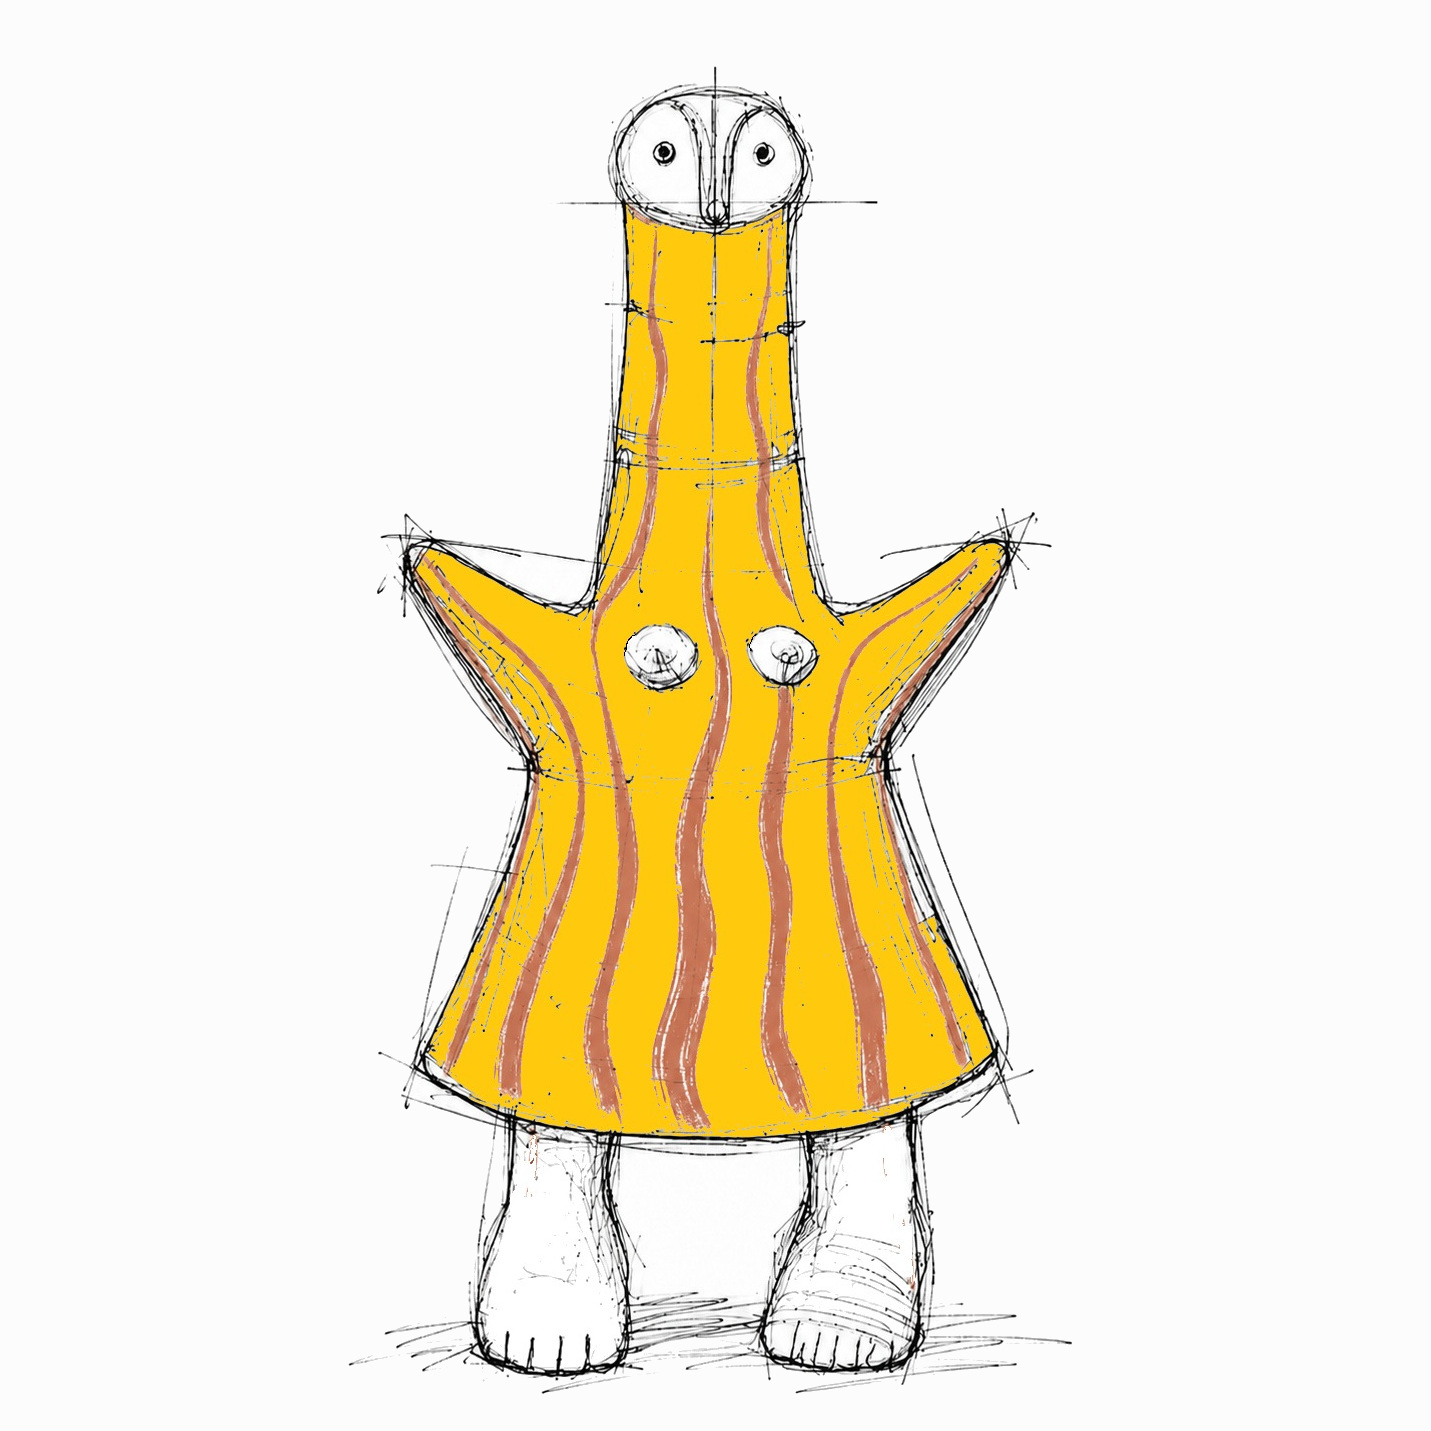
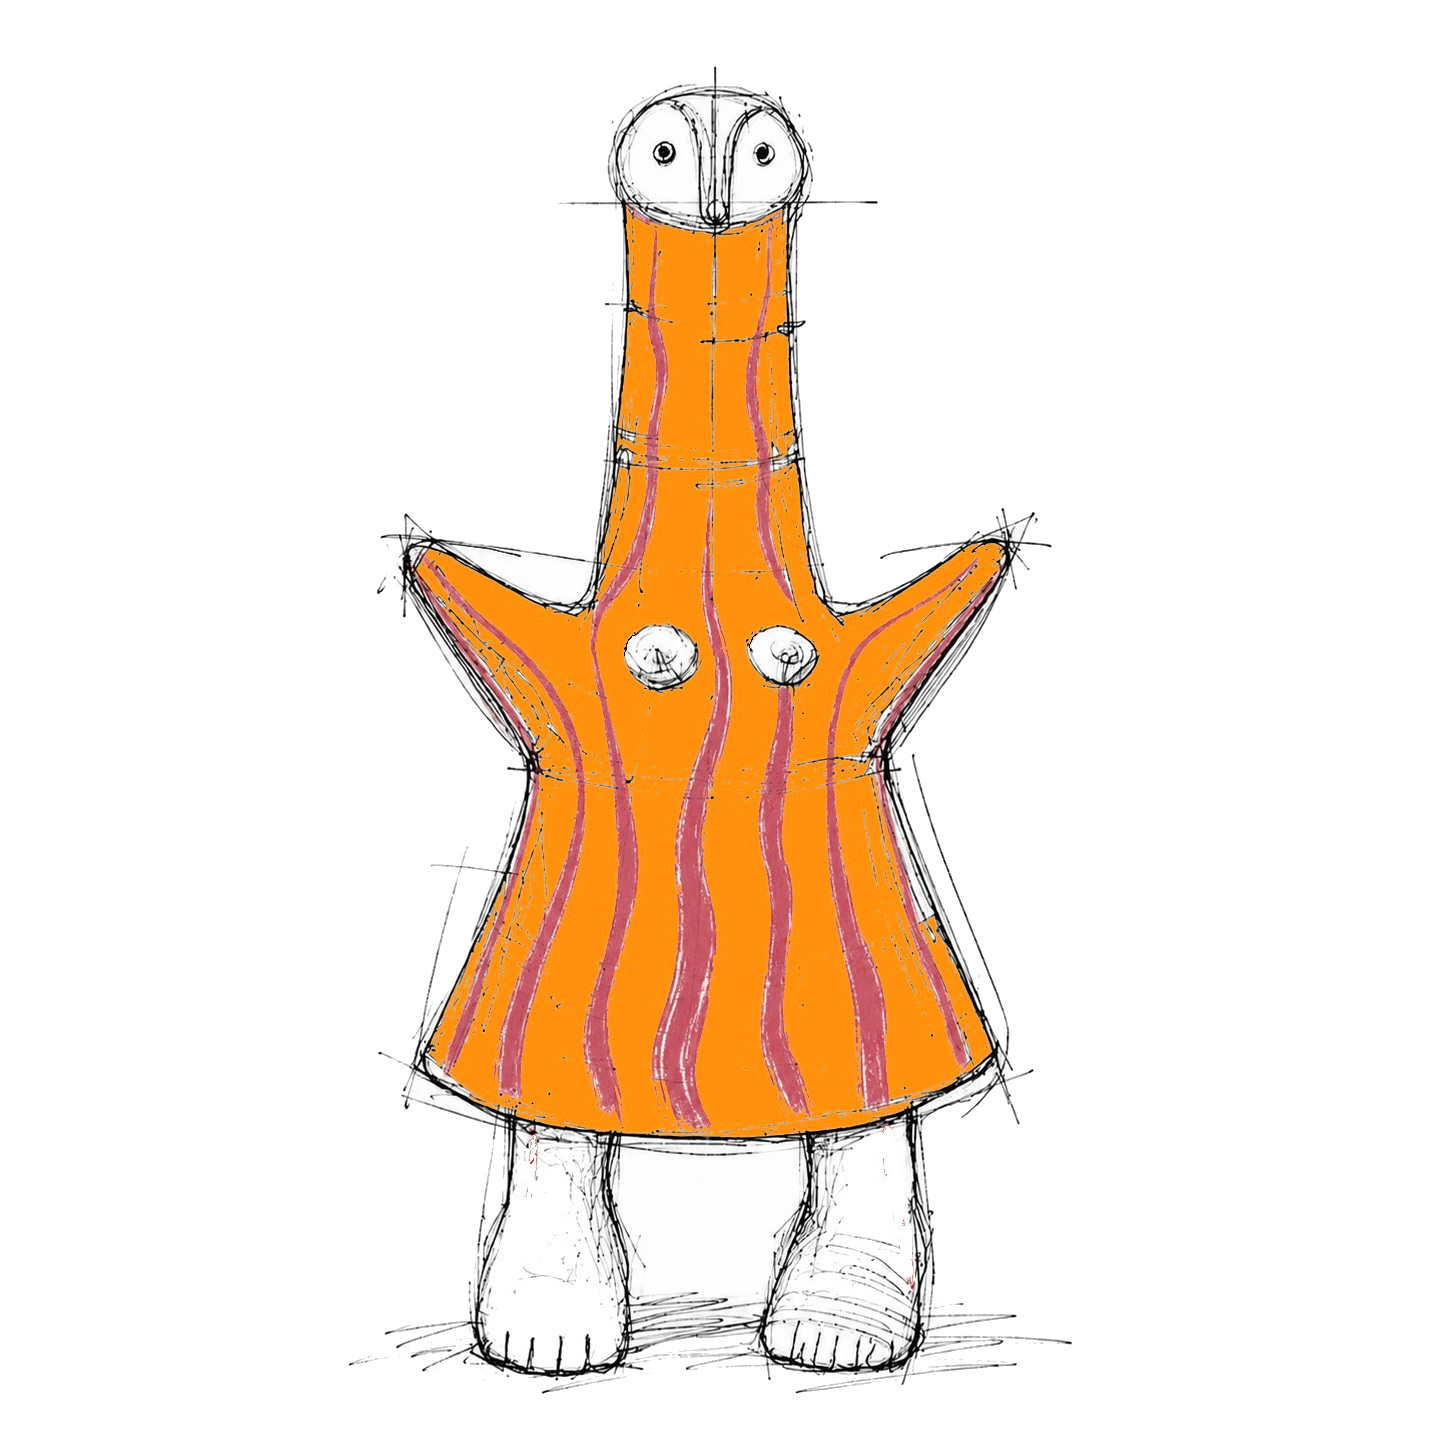
less footprints

Changed region(s): [[0.2767, 0.1537, 0.7072, 0.7994]]

diff --git a/front/src/components/sections/DoSection.js b/front/src/components/sections/DoSection.js
@@ -24,10 +24,9 @@ const SIDE_INSET = 0.07; // vertical sides sit this fraction in from each edge (
 const FOOT_STEP = 66; // px between footprints along the trail
 const FOOT_LATERAL = 14; // px each print is nudged to its track (left vs right)
 const LG = 992; // trail is desktop-only, like the circles
+const BOTTOM_PAIRS = 2; // footprints kept on EACH bottom side (L-R, L-R), nearest the corners
 
-// Two distinct toddler footprints (drawn toes-up), so the alternating gait is
-// legible. They are true mirrors of each other — big toe on opposite sides —
-// and carry .do-foot-left / .do-foot-right so you can target either track.
+//They carry .do-foot-left / .do-foot-right.
 function FootLeftShape() {
   return (
     <>
@@ -56,9 +55,10 @@ function FootRightShape() {
   );
 }
 
+
 // parity 0 = left foot on the left track, parity 1 = right foot on the right
-// track. Each print is offset to its own side of the line and rotated to follow
-// the walking direction (the shapes are pre-mirrored, so no scaleX).
+// track. Each print is offset to its own side of the line and rotated to
+// follow the trail direction, exactly like the footprints did.
 function Foot({ x, y, dir, parity }) {
   const isRight = parity === 1;
   const rad = (dir * Math.PI) / 180;
@@ -69,13 +69,9 @@ function Foot({ x, y, dir, parity }) {
     <svg
       className={`do-foot ${isRight ? "do-foot-right" : "do-foot-left"}`}
       width="24"
-      height="30"
-      viewBox="0 0 24 30"
-      style={{
-        left: x - 12 + ox,
-        top: y - 15 + oy,
-        transform: `rotate(${dir + 90}deg)`,
-      }}
+      height="32"
+      viewBox="0 0 24 32"
+      style={{ left: x - 12 + ox, top: y - 16 + oy, transform: `rotate(${dir + 90}deg)` }}
     >
       {isRight ? <FootRightShape /> : <FootLeftShape />}
     </svg>
@@ -194,17 +190,28 @@ function DoSection() {
       const botR = [];
       for (let x = x1 - R - half; x >= xc; x -= FOOT_STEP) botR.push([x, yBot, 180]);
 
+      // botL / botR are generated corner → centre, so capping them keeps the
+      // pairs nearest the corners and drops the ones closest to the myth circle.
       const out = [];
       let id = 0;
-      [topL, topR, sideL, sideR, botL, botR].forEach((seg) => {
-        let j = 0; // gait alternates within each segment → prints straddle the line
-        seg.forEach(([x, y, dir]) => {
+      const segments = [
+        [topL, Infinity],
+        [topR, Infinity],
+        [sideL, BOTTOM_PAIRS * 2],
+        [sideR, BOTTOM_PAIRS * 2],
+        [botL, BOTTOM_PAIRS * 2],
+        [botR, BOTTOM_PAIRS * 2],
+      ];
+      segments.forEach(([seg, keep]) => {
+        let j = 0; // parity alternates within a segment → feet straddle the line
+        for (const [x, y, dir] of seg) {
+          if (j >= keep) break;
           if (!blocked(x, y)) {
             out.push({ x, y, dir, parity: j % 2, id });
             id += 1;
             j += 1;
           }
-        });
+        }
       });
       setFeet(out);
     };
@@ -333,8 +340,8 @@ function DoSection() {
                         isRight ? "do-foot-right" : "do-foot-left"
                       }`}
                       width="20"
-                      height="26"
-                      viewBox="0 0 24 30"
+                      height="27"
+                      viewBox="0 0 24 32"
                       style={{
                         left: `${50 + i * 10}%`,
                         top: isRight ? 22 : 6,

diff --git a/front/src/assets/do_section.css b/front/src/assets/do_section.css
@@ -38,7 +38,7 @@
     position: absolute;
     border: 0.2rem dashed var(--gold);
     border-radius: 100px;       /* corner radius of the racetrack (match CORNER in DoSection.js) */
-    opacity: 0.55;              /* the guide line stays faint... */
+    opacity: 0;              /* the guide line stays faint... */
 }
 
 .do-foot{
